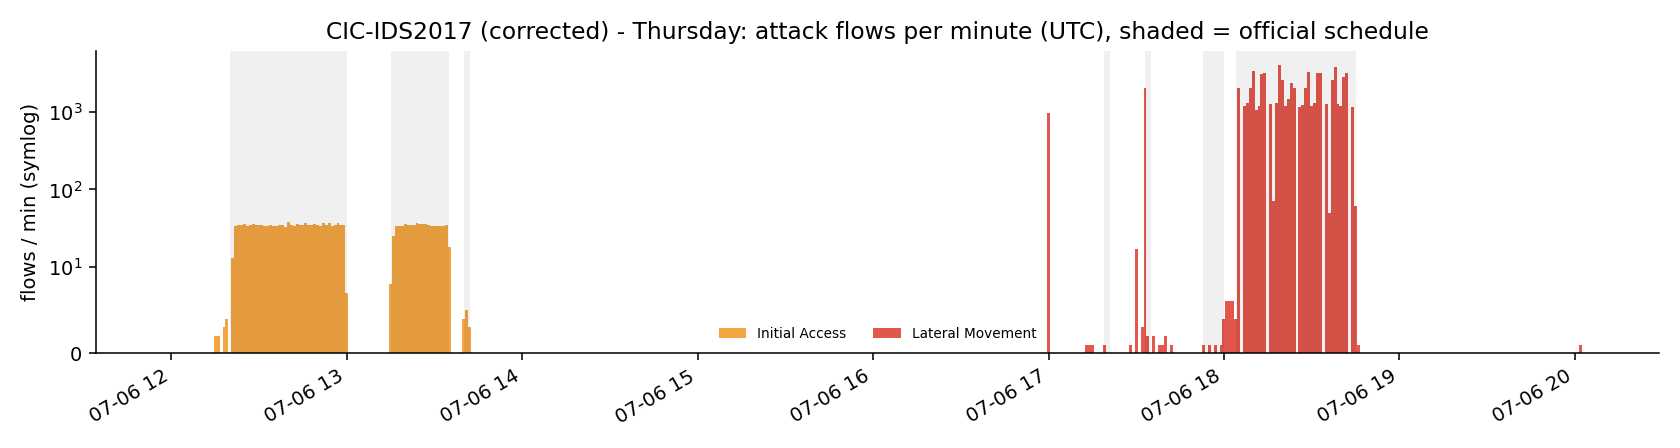
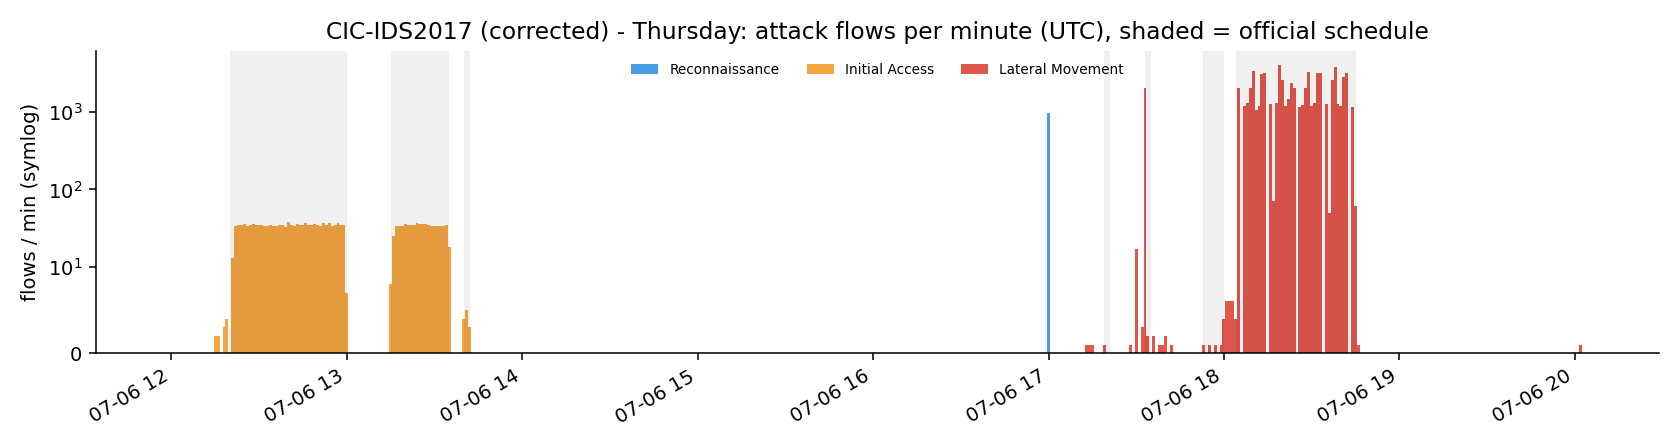
Split scan traffic by direction before stage labelling (D-012)
The corrected release labels the external attacker port sweep and the
compromised host internal NMAP sweep identically. Separating them by
source address moves Thursday first compromise onset from 17:00:00 to
17:18:30 UTC, matching the documented infiltration, and drops a spurious
episode (5 -> 4 onsets).

Changed region(s): [[0.3714, 0.125, 0.681, 0.1875], [0.4333, 0.7188, 0.619, 0.75]]

diff --git a/src/netwm/labels/mitre_map.py b/src/netwm/labels/mitre_map.py
@@ -194,3 +194,27 @@ def window_stage(labels: "list[str] | tuple[str, ...]") -> Stage:
 def is_compromise(stage: Stage) -> bool:
     """Whether a stage counts as 'infiltration completed' for the hazard target (D-005)."""
     return stage in PROGRESSION_STAGES and stage >= COMPROMISE_THRESHOLD
+
+
+_SCAN_LABEL = re.compile(r"scan|nmap|probe")
+
+
+def refine_scan_direction(
+    labels: "pd.Series", stages: "pd.Series", src_ips: "pd.Series", internal_prefixes: tuple[str, ...]
+) -> "pd.Series":
+    """Split scan traffic by direction: outside-in is Reconnaissance, inside-out is discovery.
+
+    The corrected CIC-IDS2017 release labels *both* the external attacker's unscripted port scan and
+    the compromised host's internal NMAP sweep as ``Infiltration - Portscan``. They are different
+    kill-chain stages: a scan from outside the monitored network is reconnaissance, while the same
+    scan launched from a victim host is post-compromise discovery / lateral movement. Getting this
+    wrong shifts the compromise onset ~19 minutes earlier and inflates lead time (D-012).
+    """
+    import pandas as pd  # local import: keeps this module importable without pandas
+
+    is_scan = labels.astype(str).str.lower().str.contains(_SCAN_LABEL, regex=True, na=False)
+    internal = src_ips.astype(str).str.startswith(internal_prefixes)
+    demote = is_scan & ~internal & (stages == int(Stage.LATERAL_MOVEMENT))
+    out = stages.copy()
+    out[demote] = int(Stage.RECONNAISSANCE)
+    return out

diff --git a/src/netwm/data/cicids2017.py b/src/netwm/data/cicids2017.py
@@ -12,7 +12,7 @@ from pathlib import Path
 import pandas as pd
 
 from netwm.data.base import CANONICAL_COLUMNS, DatasetAdapter
-from netwm.labels.mitre_map import is_attempted, stage_of
+from netwm.labels.mitre_map import is_attempted, refine_scan_direction, stage_of
 
 #: raw CSV column -> canonical name
 COLUMN_MAP: dict[str, str] = {
@@ -117,6 +117,11 @@ class CICIDS2017Adapter(DatasetAdapter):
         stage_lut = {lbl: int(stage_of(lbl)) for lbl in uniq}
         attempt_lut = {lbl: bool(is_attempted(lbl)) for lbl in uniq}
         df["stage"] = labels.map(stage_lut).astype("int8")
+        # An external scan and a scan from a compromised host share the label in this release;
+        # separate them by source address (D-012).
+        df["stage"] = refine_scan_direction(
+            labels, df["stage"], df["src_ip"], (VICTIM_SUBNET,)
+        ).astype("int8")
         df["attempted"] = labels.map(attempt_lut).astype(bool)
         df["day"] = split
 

diff --git a/results.md b/results.md
@@ -8,7 +8,7 @@ the commentary column.
 
 | # | experiment | dataset / split | command | artefacts | headline |
 |---|---|---|---|---|---|
-| E1 | dataset audit | CIC-IDS2017 corrected, all 5 days | `python scripts/audit_dataset.py` | `results/tables/e1_*.csv`, `results/figures/e1_*_timeline.png`, `results/runs/e1-dataset-audit/` | 2.10 M flows, 4 907 windows; attack share 0-47 % per day; 6 compromise onsets total |
+| E1 | dataset audit | CIC-IDS2017 corrected, all 5 days | `python scripts/audit_dataset.py` | `results/tables/e1_*.csv`, `results/figures/e1_*_timeline.png`, `results/runs/e1-dataset-audit/` | 2.10 M flows, 4 907 windows; attack share 0-47 % per day; only 5 compromise onsets all week |
 
 ## Planned experiment set (M1)
 
@@ -39,7 +39,7 @@ the commentary column.
 | Monday | 371 624 | 0.00 % | 0 | 974 | 0 |
 | Tuesday | 322 078 | 2.17 % | 39 | 976 | 0 |
 | Wednesday | 496 641 | 35.74 % | 5 876 | 1 017 | 0 |
-| Thursday | 362 076 | 20.41 % | 1 997 | 972 | 5 |
+| Thursday | 362 076 | 20.41 % | 1 997 | 972 | 4 |
 | Friday | 547 557 | 47.30 % | 4 067 | 968 | 1 |
 
 Window stage distribution (after excluding `- Attempted`, D-009) - `results/tables/e1_window_stats.csv`:
@@ -49,7 +49,7 @@ Window stage distribution (after excluding `- Attempted`, D-009) - `results/tabl
 | Monday | 974 | - | - | - | - | - |
 | Tuesday | 724 | - | 252 | - | - | - |
 | Wednesday | 860 | - | 22 | - | - | 135 |
-| Thursday | 736 | - | 126 | 110 | - | - |
+| Thursday | 736 | 2 | 126 | 108 | - | - |
 | Friday | 759 | 52 | - | - | 116 | 41 |
 
 ### Findings
@@ -58,10 +58,13 @@ Window stage distribution (after excluding `- Attempted`, D-009) - `results/tabl
    14:03-20:01 UTC (307 min) vs 59 min of real botnet traffic. Counting it as C2 labelled 727/968
    Friday windows as Command & Control and masked the PortScan (11 windows) and DDoS (5 windows)
    completely. Excluding it gives 116 / 52 / 41 - which matches the published schedule. -> **D-009**
-2. **Lateral movement starts ~19 minutes before the documented infiltration.** The corrected labels
-   put `Infiltration - Portscan` at 17:00:31 UTC while the official schedule starts the infiltration
-   at 17:19. Onsets used for lead time are therefore taken from the data, not the schedule.
-   -> **D-011**
+2. **One label, two kill-chain stages.** `Infiltration - Portscan` starts at 17:00:31 UTC, ~19 min
+   before the documented infiltration - but those 955 early flows come from **172.16.0.1**
+   (the external attacker NAT) hitting 954 ports on a single host, while the remaining 70 812 come
+   from **192.168.10.8**, the compromised victim. External scan = Reconnaissance, victim scan =
+   post-compromise discovery. Splitting them by source moved Thursday's first compromise onset from
+   17:00:00 to **17:18:30**, matching the documented 17:19 infiltration, and removed one spurious
+   episode (5 onsets -> 4). -> **D-012**
 3. **The compromise event itself is 36 flows.** `Infiltration` (the Meterpreter session) is 36 flows
    out of 362 076 on Thursday (0.01 %); the loud part is the 71 767-flow internal portscan that
    follows. Any metric averaged over flows will be dominated by the aftermath, not the compromise -
@@ -69,7 +72,7 @@ Window stage distribution (after excluding `- Attempted`, D-009) - `results/tabl
 4. **This dataset serialises its attacks.** After D-009, no window contains two different stages, so
    the multi-label view (D-010) is currently identical to the dominant-stage view. Concurrency has to
    come from CTU-13 in M2.
-5. **Only 6 compromise onsets exist in the whole week** (5 Thursday + 1 Friday). Lead time will have
+5. **Only 5 compromise onsets exist in the whole week** (4 Thursday + 1 Friday). Lead time will have
    a tiny sample size, so it must be reported per episode with the individual values, never as a
    single mean with an implied confidence.
 

diff --git a/decisions.md b/decisions.md
@@ -192,7 +192,7 @@ run concurrently, will need.
 ---
 
 ### D-011 — Compromise onset = first window with a non-attempted stage ≥ Lateral Movement
-*Date: 2026-09-24 · Status: provisional · Evidence: E1*
+*Date: 2026-09-24 · Status: accepted (open item closed by D-012) · Evidence: E1*
 
 **Decision.** Lead time is measured against episode onsets computed this way, with episodes split by
 ≥ 4 quiet windows (2 minutes).
@@ -203,6 +203,28 @@ schedule starting 17:19 — because the corrected labels mark internal portscan 
 victim host starting **17:00:31**, ~19 minutes before the documented Meterpreter session. We take the
 data over the schedule, and treat the official times only as a sanity overlay in plots.
 
-**Provisional because.** If that 17:00 portscan turns out to be the unscripted scan Engelen et al.
-mention rather than post-compromise activity, the first onset is spurious and lead-time numbers for
-episode 1 must be reported separately. Open item in `research/cicids2017.md`.
+**Resolved.** That 17:00 portscan turned out to be external (see D-012), so it is no longer an
+onset; Thursday's first onset is now 17:18:30 UTC, matching the documented infiltration at 17:19.
+
+---
+
+### D-012 — Scan traffic is split by direction before it becomes a stage label
+*Date: 2026-09-24 · Status: accepted · Evidence: E1*
+
+**Decision.** A scan-type label whose source address is outside the monitored subnet is
+Reconnaissance; the same label from an inside host is post-compromise discovery (Lateral Movement).
+Implemented in `refine_scan_direction()` and applied by the CIC-IDS2017 adapter.
+
+**Why.** The corrected release gives both events the single label `Infiltration - Portscan`. The
+audit separated them: 955 flows at 17:00:31-17:00:45 UTC from **172.16.0.1** (external attacker NAT)
+sweeping 954 ports on one host, then 70 812 flows from **192.168.10.8** — the Meterpreter victim —
+sweeping the internal network. Treating the external burst as lateral movement invented a compromise
+onset 18 minutes before the attacker actually got in, which would have silently inflated every
+lead-time number we report.
+
+**Side note worth keeping.** The infiltration C2 flows show three infected hosts, not one:
+`192.168.10.8` (48 flows), `192.168.10.25` (30) and `192.168.10.9` (3), all dialling out to
+`205.174.165.73`.
+
+**Revisit if.** A dataset has no reliable notion of "inside" (CTU-13 mixes routed subnets) — then the
+rule needs the adapter to declare its monitored prefixes explicitly.
